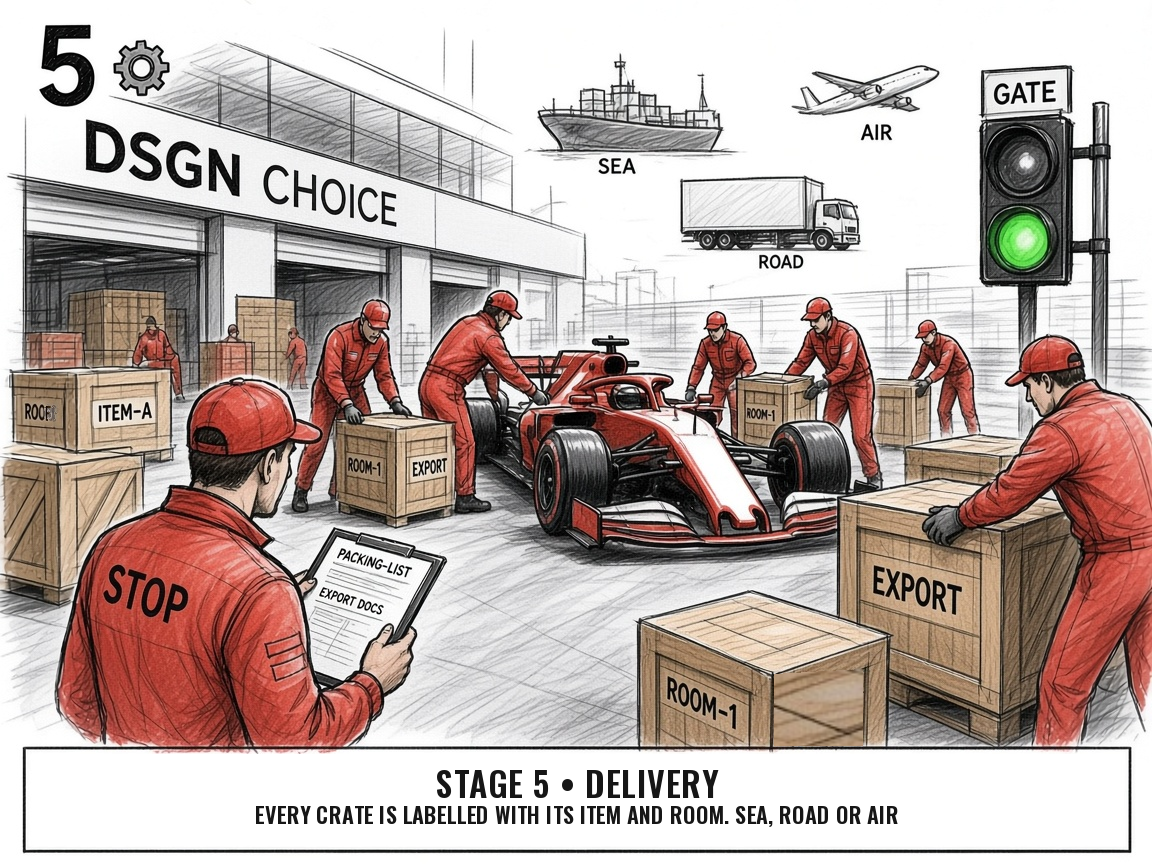
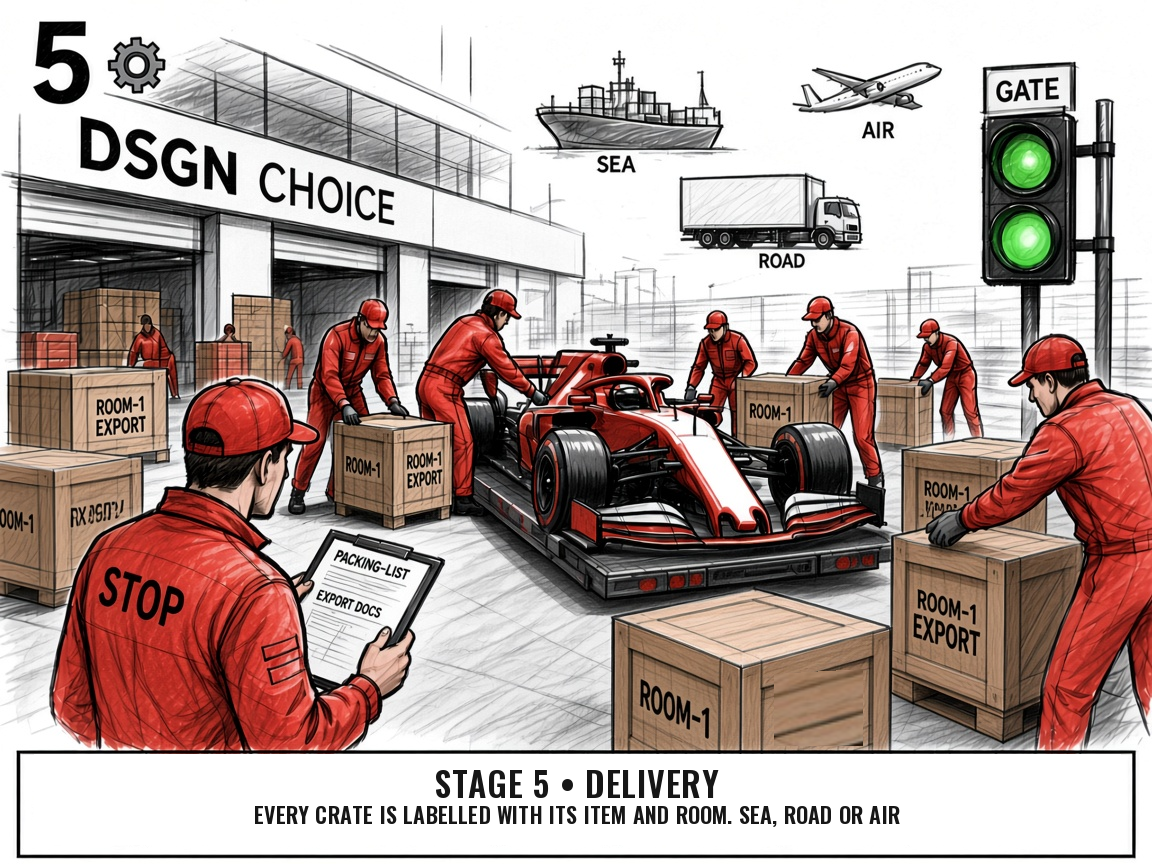
Replace delivery pit-stop panel with regenerated locale art.
Rebuild en/uk/ru deliver PNGs through the localize pipeline and align crate ink checks with the redrawn illustration.

diff --git a/src/content/pitStopArt.test.ts b/src/content/pitStopArt.test.ts
@@ -137,14 +137,15 @@ describe('pit-stop storyboard art', () => {
       const mean = sum / count
       const sideMean = sideSum / sideCount
       const deviation = Math.sqrt(sumSquares / count - mean * mean)
-      expect(deviation).toBeGreaterThan(22)
+      expect(deviation).toBeGreaterThan(21)
       expect(mean).toBeGreaterThan(120)
       expect(mean).toBeLessThan(190)
       expect(Math.abs(mean - sideMean)).toBeLessThan(40)
-      // Large crate still reads EXPORT, and the small ROOF mark is untouched.
+      // Large crate reads EXPORT (not a stray AXPORT leg at the old A slot).
       expect(ink(at(880, 572))).toBe(false)
-      expect(ink(at(875, 580))).toBe(true)
-      expect(ink(at(46, 412))).toBe(true)
+      expect(ink(at(877, 561))).toBe(true)
+      // Clipboard ROOF mark moved slightly in the redrawn deliver panel.
+      expect(ink(at(71, 412))).toBe(true)
     }
   })
 })
